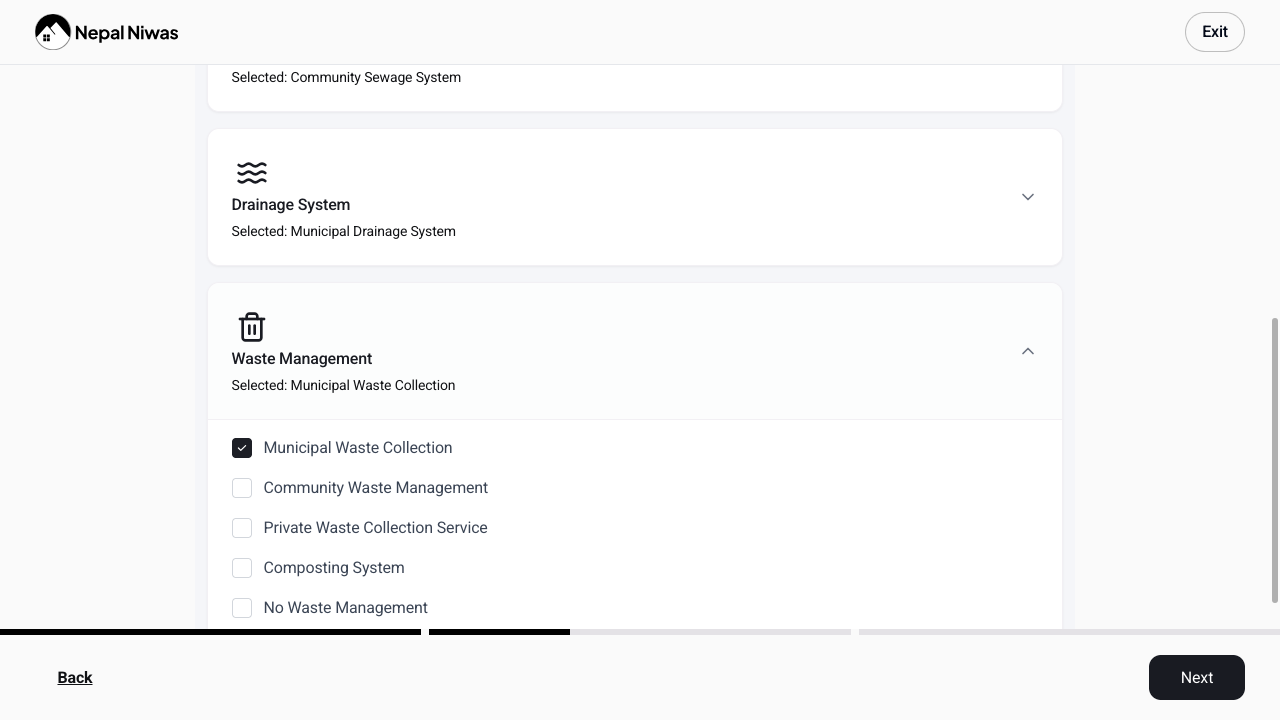
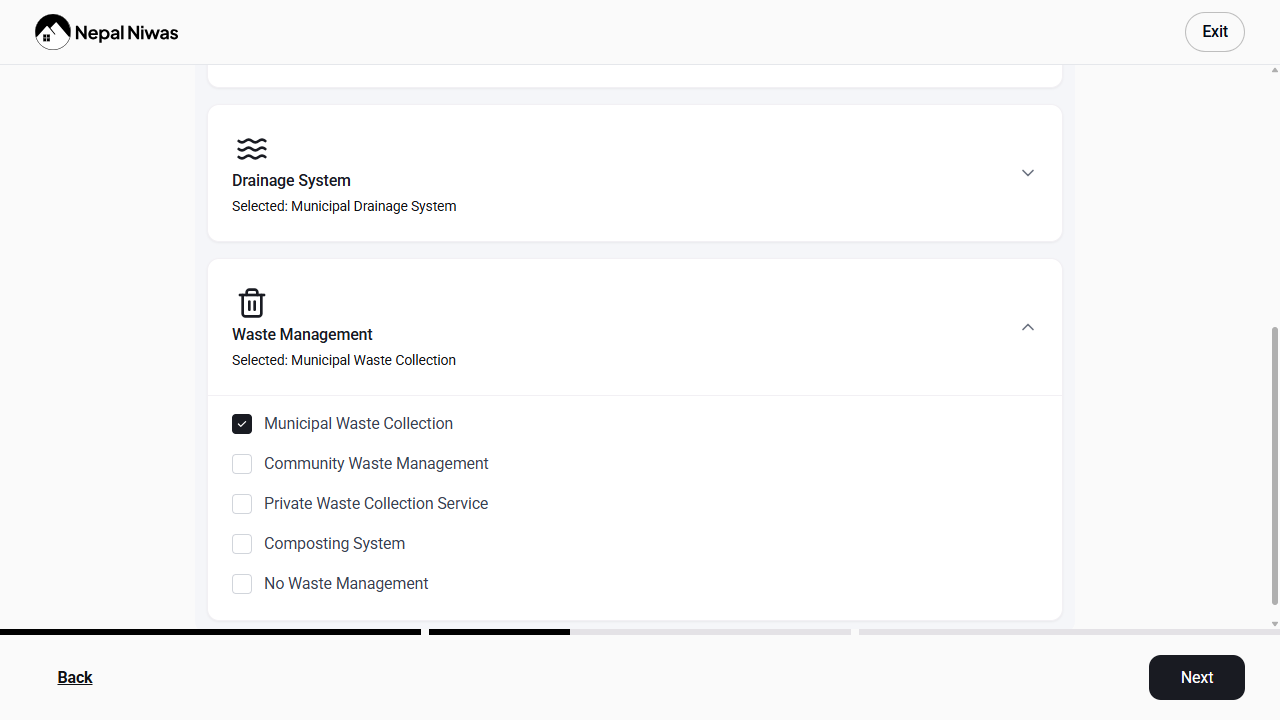
Add script to generate placeholder test images for automation tests
- Created a new script `generate-test-images.js` that generates five 1x1 transparent PNG images for testing purposes.
- Added generated images: `test-image-1.jpg`, `test-image-2.jpg`, `test-image-3.jpg`, `test-image-4.jpg`, and `test-image-5.jpg` in the `tests/fixtures` directory.

diff --git a/tests/agent/add-property/add-sale/step-helpers/step013-photos.js b/tests/agent/add-property/add-sale/step-helpers/step013-photos.js
@@ -1,0 +1,60 @@
+import { expect } from '@playwright/test';
+import path from 'path';
+
+export async function fillStep013Photos(page) {
+  // Assumes already on the photos page and logged in
+  
+  // Verify the photos form is visible
+  await expect(page.getByRole('heading', { name: /Add some photos of your house/i })).toBeVisible({ timeout: 15000 });
+  await expect(page.getByText(/To begin, please upload 5 photos/i)).toBeVisible();
+  
+  const exitButton = page.getByRole('button', { name: 'Exit' });
+  const backButton = page.getByRole('button', { name: 'Back' });
+  const nextButton = page.getByRole('button', { name: 'Next' });
+  
+  await expect(exitButton).toBeVisible();
+  await expect(backButton).toBeVisible();
+  
+  // Click Add Photos button
+  const addPhotosButton = page.getByRole('button', { name: 'Add Photos' });
+  await expect(addPhotosButton).toBeVisible();
+  await addPhotosButton.click();
+  
+  // Wait briefly for file input dialog
+  await page.waitForTimeout(300);
+  
+  // Prepare file paths for the test images from photos directory
+  const photosDir = path.join(__dirname, '../../../photos');
+  const testImages = [
+    path.join(photosDir, 'A.jpg'),
+    path.join(photosDir, 'B.jpg'),
+    path.join(photosDir, 'C.jpg'),
+    path.join(photosDir, 'D.jpg'),
+    path.join(photosDir, 'E.jpg')
+  ];
+  
+  // Get the file input element and set files
+  const fileInput = page.locator('input[type="file"].sr-only');
+  await fileInput.setInputFiles(testImages);
+  
+  // Wait for preview to load
+  await page.waitForTimeout(500);
+  
+  // Click Upload button
+  const uploadButton = page.getByRole('button', { name: 'Upload', exact: true });
+  await expect(uploadButton).toBeVisible({ timeout: 10000 });
+  await uploadButton.click({ force: true });
+  
+  // Wait for upload to complete and button to enable
+  await page.waitForTimeout(1000);
+  
+  // Wait for Next button to be enabled
+  await nextButton.waitFor({ state: 'visible', timeout: 10000 });
+  await page.waitForTimeout(200);
+  
+  // Click Next
+  await nextButton.click({ force: true });
+  
+  // Wait for navigation away from photos page
+  await page.waitForURL((url) => !url.href.includes('/photos'), { timeout: 15000 });
+}

diff --git a/tests/fixtures/generate-test-images.js b/tests/fixtures/generate-test-images.js
@@ -1,0 +1,41 @@
+/**
+ * Script to generate placeholder test images for automation tests
+ * Run this once: node tests/fixtures/generate-test-images.js
+ */
+
+const fs = require('fs');
+const path = require('path');
+
+// Create a minimal valid PNG (1x1 transparent pixel)
+const minimalPNG = Buffer.from([
+  0x89, 0x50, 0x4E, 0x47, 0x0D, 0x0A, 0x1A, 0x0A, // PNG signature
+  0x00, 0x00, 0x00, 0x0D, // IHDR length
+  0x49, 0x48, 0x44, 0x52, // IHDR
+  0x00, 0x00, 0x00, 0x01, 0x00, 0x00, 0x00, 0x01, 0x08, 0x06, 0x00, 0x00, 0x00, // 1x1, 8-bit RGBA
+  0x1F, 0x15, 0xC4, 0x89, // CRC
+  0x00, 0x00, 0x00, 0x0A, // IDAT length
+  0x49, 0x44, 0x41, 0x54, // IDAT
+  0x78, 0x9C, 0x63, 0x00, 0x01, 0x00, 0x00, 0x05, 0x00, 0x01, // data
+  0x0D, 0x0A, 0x2D, 0xB4, // CRC
+  0x00, 0x00, 0x00, 0x00, // IEND length
+  0x49, 0x45, 0x4E, 0x44, // IEND
+  0xAE, 0x42, 0x60, 0x82  // CRC
+]);
+
+const fixturesDir = __dirname;
+const imageNames = [
+  'test-image-1.jpg',
+  'test-image-2.jpg',
+  'test-image-3.jpg',
+  'test-image-4.jpg',
+  'test-image-5.jpg'
+];
+
+// Generate images
+imageNames.forEach((name) => {
+  const filepath = path.join(fixturesDir, name);
+  fs.writeFileSync(filepath, minimalPNG);
+  console.log(`✓ Created ${name}`);
+});
+
+console.log(`\n✅ Generated ${imageNames.length} test images in ${fixturesDir}`);

diff --git a/tests/agent/add-property/add-sale/step013.spec.js b/tests/agent/add-property/add-sale/step013.spec.js
@@ -1,0 +1,6 @@
+import { test } from '@playwright/test';
+import { fillStep013Photos } from './step-helpers/step013-photos.js';
+
+test('Step 013 Photos works', async ({ page }) => {
+  await fillStep013Photos(page);
+});

diff --git a/tests/agent/add-property/add-sale/step-helpers/step012-utilities.js b/tests/agent/add-property/add-sale/step-helpers/step012-utilities.js
@@ -35,7 +35,10 @@ export async function fillStep012Utilities(page) {
   
   // Select Drainage System options
   await page.locator('div').filter({ hasText: /^Drainage System$/ }).nth(2).click();
-  await page.getByText('Municipal Drainage System').click();
+  const drainage = page.getByText('Municipal Drainage System');
+  await drainage.waitFor({ state: 'attached', timeout: 10000 });
+  await page.waitForTimeout(200);
+  await drainage.click({ force: true });
   
   // Select Waste Management options
   await page.locator('div').filter({ hasText: /^Waste Management$/ }).nth(3).click();

diff --git a/tests/agent/add-property/add-sale/full-form-add-sale.spec.js b/tests/agent/add-property/add-sale/full-form-add-sale.spec.js
@@ -12,6 +12,7 @@ import { fillStep09MakeYourPlace } from './step-helpers/step09-makeyourplace.js'
 import { fillStep10area } from './step-helpers/step10-area.js';
 import { fillStep11RoadDetails } from './step-helpers/step011-road-details.js';
 import { fillStep012Utilities } from './step-helpers/step012-utilities.js';
+import { fillStep013Photos } from './step-helpers/step013-photos.js';
 
 // 🔥 ADD THIS BLOCK
 test.beforeEach(async ({ page }) => {
@@ -20,7 +21,7 @@ test.beforeEach(async ({ page }) => {
 
 // ✅ Your test (no login here)
 test('Full add sale flow', async ({ page }) => {
-  test.setTimeout(120000);
+  test.setTimeout(180000);
 
   // Navigate to the home page after login
   await page.goto('https://staging.nepalniwas.com/users/home');
@@ -40,5 +41,6 @@ test('Full add sale flow', async ({ page }) => {
   await fillStep10area(page);
   await fillStep11RoadDetails(page);
   await fillStep012Utilities(page);
+  await fillStep013Photos(page);
 
 });

diff --git a/tests/agent/add-property/add-sale/step-helpers/step07-new-location.js b/tests/agent/add-property/add-sale/step-helpers/step07-new-location.js
@@ -9,7 +9,6 @@ export async function fillStep07newlocation(page) {
   await expect(page.getByText('District *', { exact: false }).first()).toBeVisible();
   await expect(page.getByText('Municipality *', { exact: false }).first()).toBeVisible();
   await expect(page.getByText('Ward No. *', { exact: false }).first()).toBeVisible();
-  await expect(page.getByText(/Area \(e\.g\. Balaju,\s*Thamel\) \*/i).first()).toBeVisible();
   await expect(page.getByText('Street/Tole *', { exact: false }).first()).toBeVisible();
 
   const exitButton = page.getByRole('button', { name: 'Exit' });